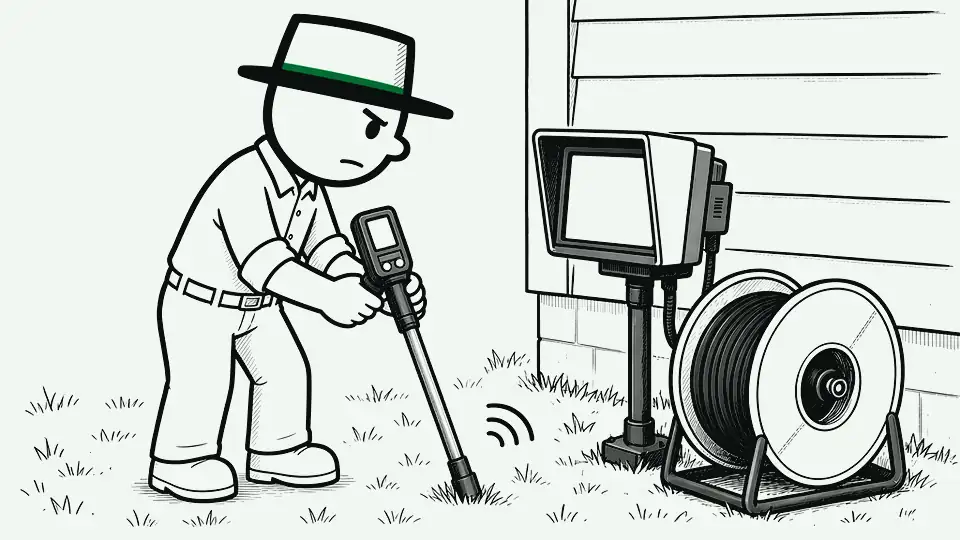
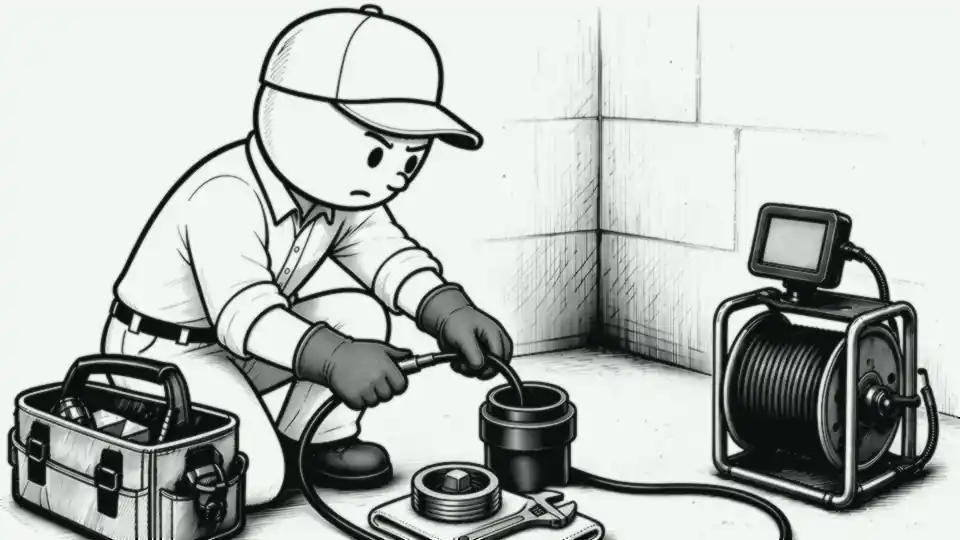
Scenes v7: cammain as 8 locked-camera keyframes (wrench off the cleanout plug onto a towel, push-camera rod fed off the reel, monitor footage counter 47 FT, camera head retracted, plug threaded by hand then snugged, thumbs-up)

diff --git a/scenes/cammain.js b/scenes/cammain.js
@@ -1,1 +1,1 @@
-(window.EESceneData=window.EESceneData||{})["cammain"]={"kind":"kf","w":960,"h":540,"title":"Main line camera inspected","alt":"The camera head goes into the cleanout, roots show on the monitor, the locator wand finds the spot, a flag marks it in the yard, and the report is ready on the tablet.","frames":[{"src":"scenes/kf/cammain-1.webp?v=6","hold":560,"tw":{"x":-4}},{"src":"scenes/kf/cammain-2.webp?v=6","hold":560,"tw":{"y":-6},"o":[{"x":562,"y":49,"t":"word","text":"ROOTS!","s":43}]},{"src":"scenes/kf/cammain-3.webp?v=6","hold":560,"tw":{"x":5,"ms":240},"o":[{"x":525,"y":441,"t":"word","text":"beep beep","s":32}]},{"src":"scenes/kf/cammain-4.webp?v=6","hold":560,"tw":{"sy":0.99,"ms":200}},{"src":"scenes/kf/cammain-5.webp?v=6","hold":760,"tw":{"y":8,"r":-1,"ms":300},"o":[{"x":110,"y":270,"t":"check"}]}],"placeholder":false};
+(window.EESceneData=window.EESceneData||{})["cammain"]={"kind":"kf","w":960,"h":540,"title":"Main line camera inspected","alt":"He loosens the cleanout plug with an adjustable wrench and sets it on a towel, feeds the push camera's rod off the reel into the cleanout, points at the monitor as the footage counter reads 47 feet down a clear line, pulls the camera head back out, threads the plug back in by hand, snugs it with the wrench, and gives a thumbs-up.","frames":[{"src":"scenes/kf/cammain-1.webp?v=7.2","hold":460,"tw":{"x":-3},"o":[{"x":562,"y":309,"t":"effort","a":-40}]},{"src":"scenes/kf/cammain-2.webp?v=7.2","hold":440,"tw":{"y":-4}},{"src":"scenes/kf/cammain-3.webp?v=7.2","hold":460,"tw":{"x":4,"ms":240},"o":[{"x":525,"y":281,"t":"effort","a":-50}]},{"src":"scenes/kf/cammain-4.webp?v=7.2","hold":620,"tw":{"sy":0.99,"ms":200},"o":[{"x":741,"y":101,"t":"word","text":"47 FT","s":39}]},{"src":"scenes/kf/cammain-5.webp?v=7.2","hold":460,"tw":{"y":-4}},{"src":"scenes/kf/cammain-6.webp?v=7.2","hold":440,"tw":{"x":-4,"ms":240}},{"src":"scenes/kf/cammain-7.webp?v=7.2","hold":460,"tw":{"x":-3},"o":[{"x":562,"y":309,"t":"effort","a":-40}]},{"src":"scenes/kf/cammain-8.webp?v=7.2","hold":1000,"tw":{"y":6,"r":-0.8,"ms":300},"o":[{"x":850,"y":100,"t":"check"}]}],"placeholder":false};
